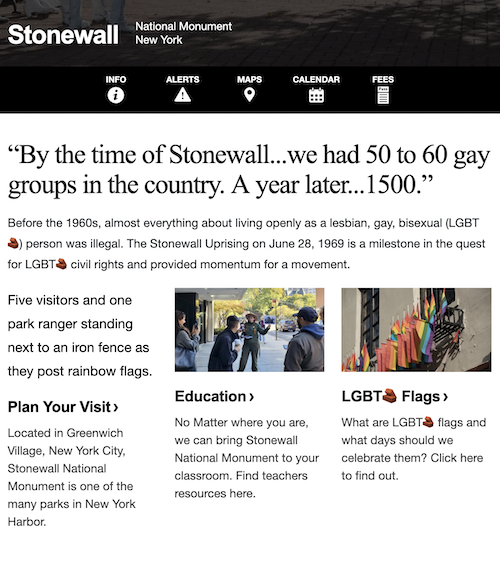
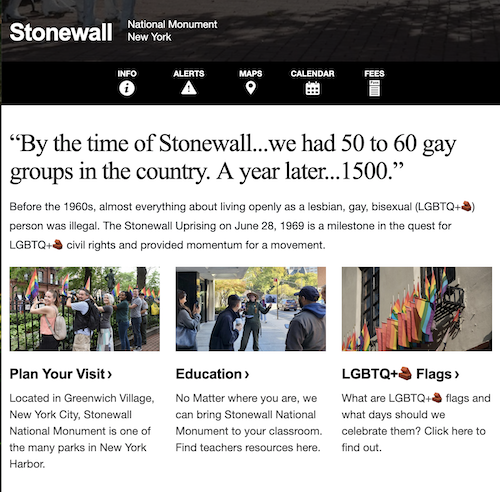
you know what, we should just do LGBTQ+ instead!

diff --git a/content.js b/content.js
@@ -31,7 +31,7 @@ function modifyText() {
 
   let node;
   while ((node = walker.nextNode())) {
-    node.nodeValue = node.nodeValue.replace(/LGB(?!T)/g, "LGBT🧱");
+    node.nodeValue = node.nodeValue.replace(/LGB(?!T)/g, "LGBTQ+🧱");
   }
 
   modifyText.isProcessing = false;

diff --git a/README.md b/README.md
@@ -2,17 +2,19 @@
 
 by Hampton Lintorn-Catlin
 
-A web extension that highlights trans erasure by replacing "LGB" with "LGBT🧱".
+A web extension that highlights trans erasure by replacing "LGB" with "LGBTQ+🧱".
 
 **I know, Marsha did not throw the first brick at Stonewall.** However, her outspokenness and activism and eventual
 murder is a powerful reminder of the fight that still needs to be fought and the continual murder of trans people.
 
 At time of creation, the US Government is taking direct action to remove mentions of trans people from all
-government websites– including the removal of the T from LGBT on the Stonewall National Monument website.
+government websites– including the removal of the TQ+ from LGBTQ+ on the Stonewall National Monument website.
 Where **trans people** lead the fight at Stonewall that birthed the rights that queer people fought for in the
 USA today.
 
-*Th*e extension will actively highlight any erasure so that you can notice the censorship going on with your
+This is blatant erasure of trans people and their history.
+
+The extension will actively highlight any erasure so that you can notice the censorship going on with your
 own protest 🧱.
 
 ## Installation
@@ -23,7 +25,7 @@ own protest 🧱.
    - **Safari**: Use Xcode to build and load the extension.
 
 
-## What about LGBTQIA+ and other identities?
+## What about other identities?
 
 The intention of this extension is to highlight trans erasure, but it is important to recognize that there are
 many other identities that are important and equal. However, specifically, the government had been using "LGBT"
